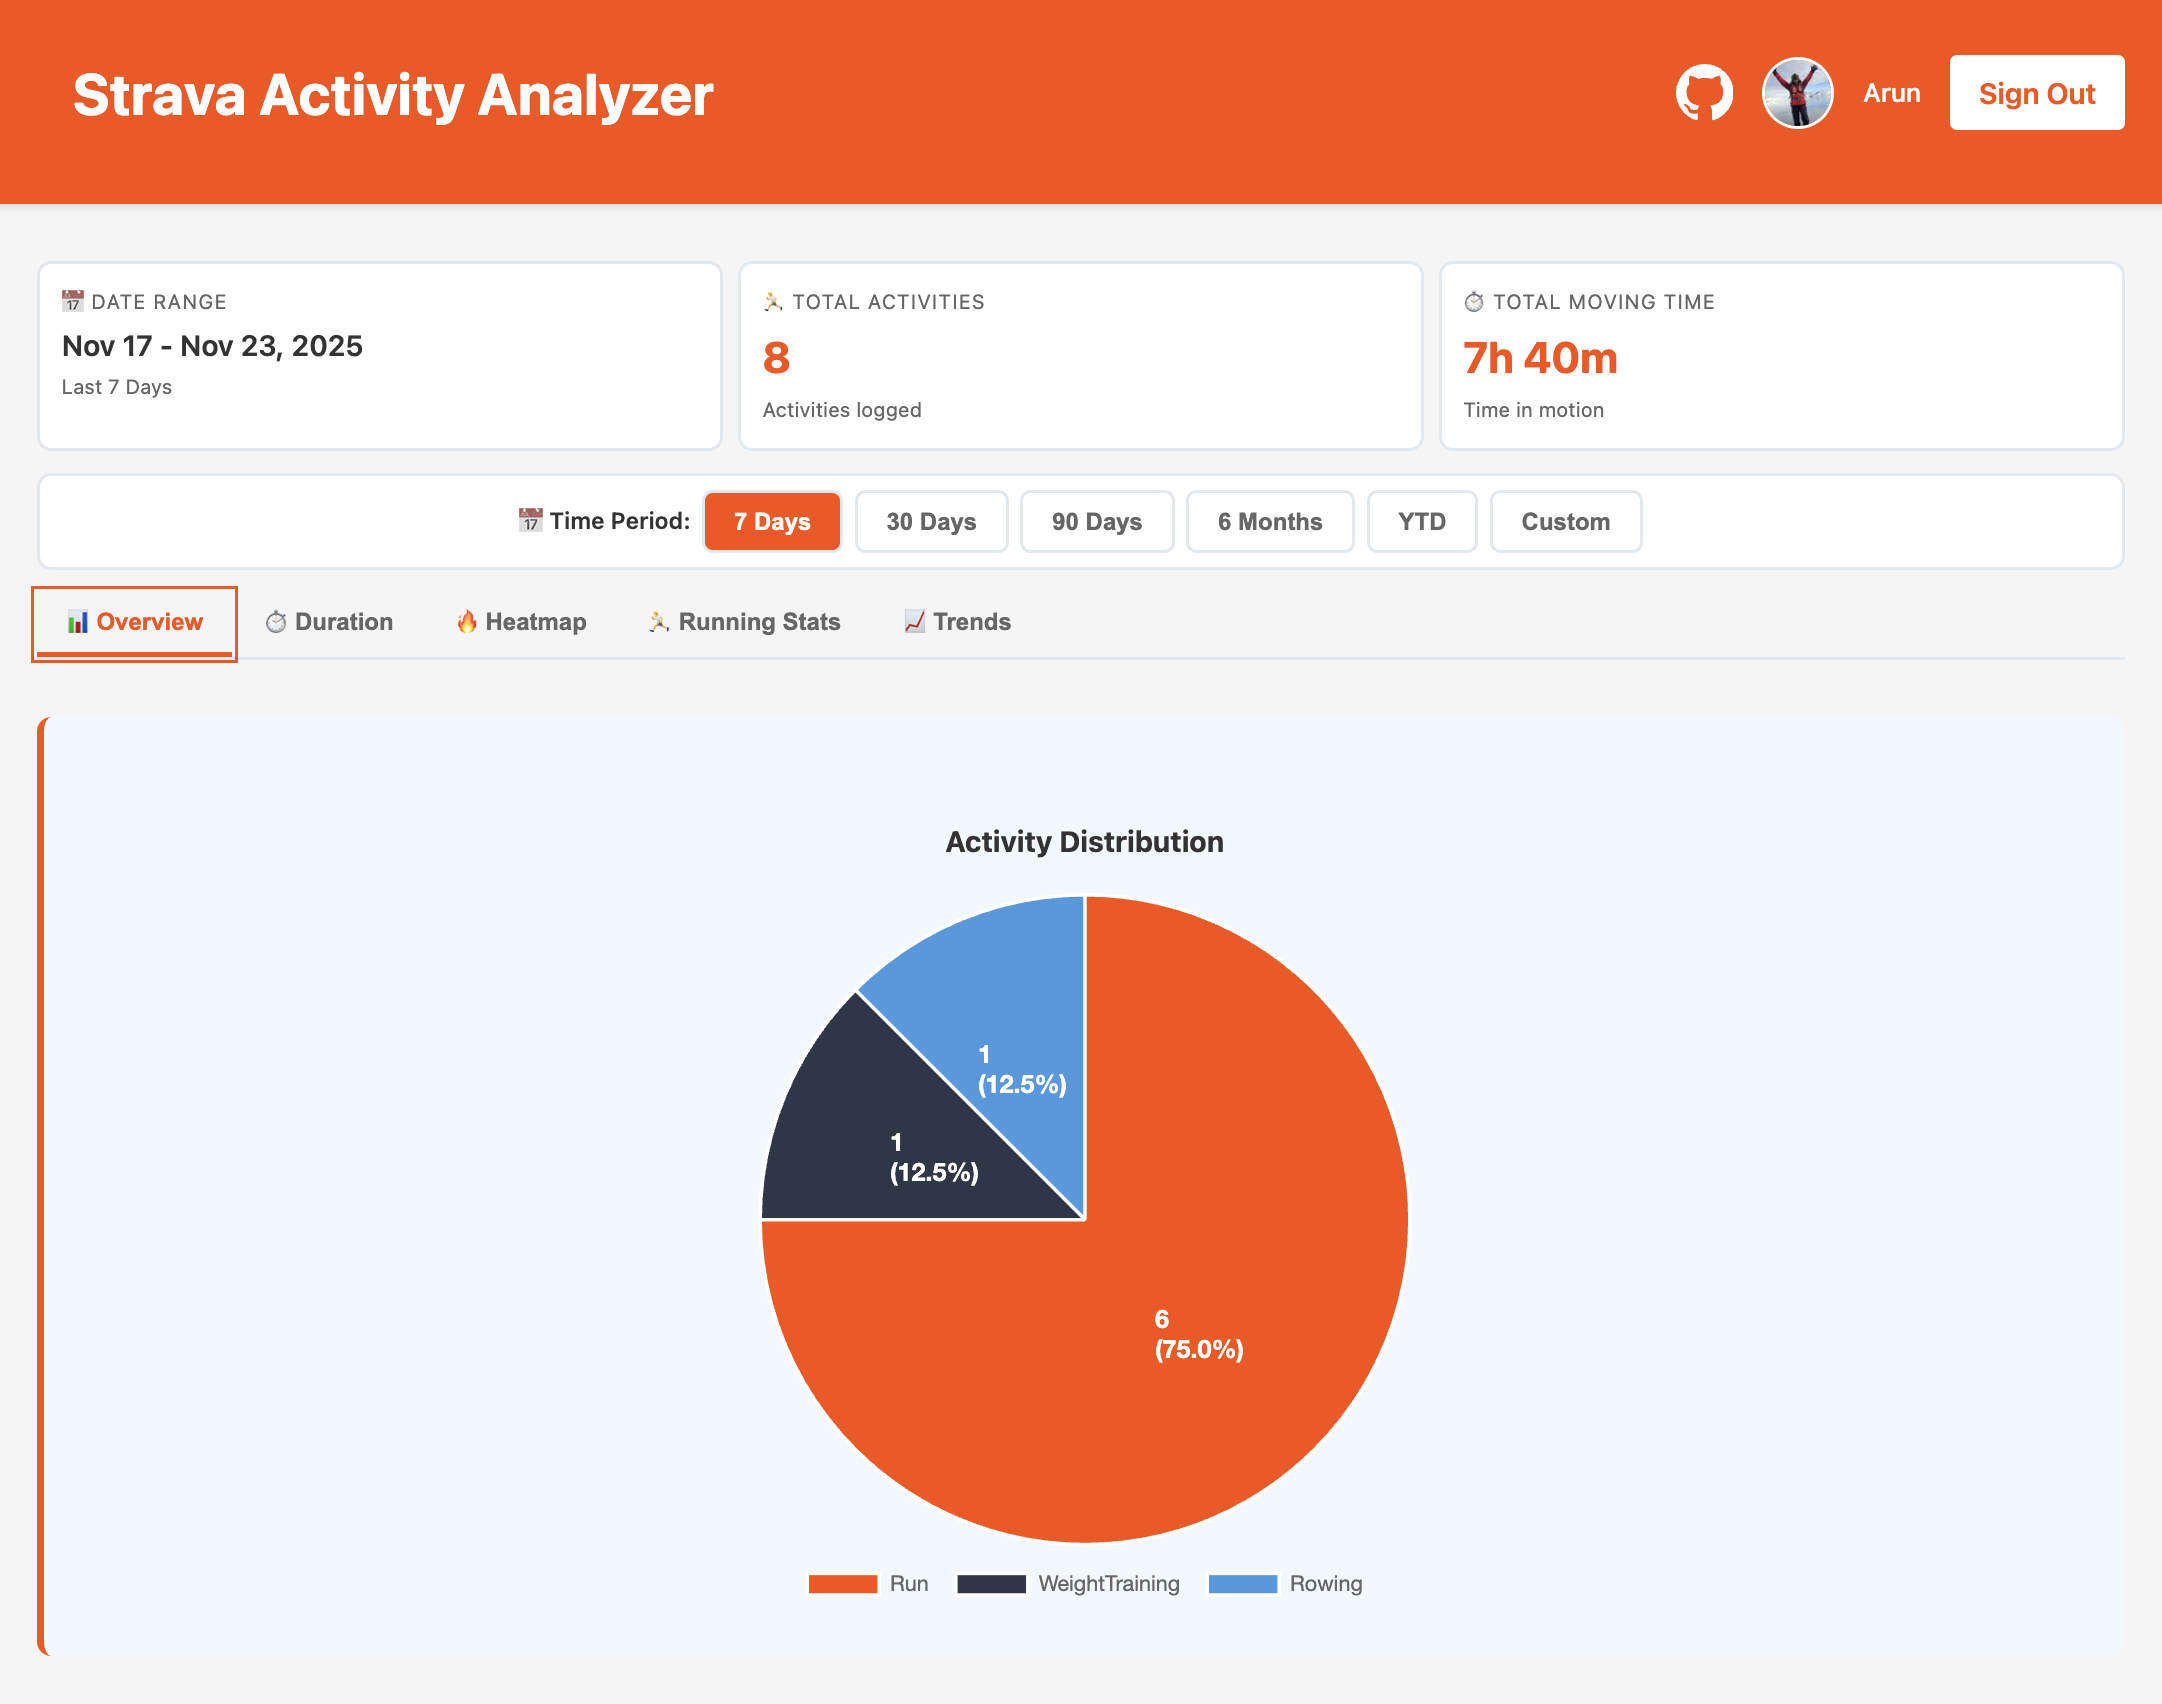
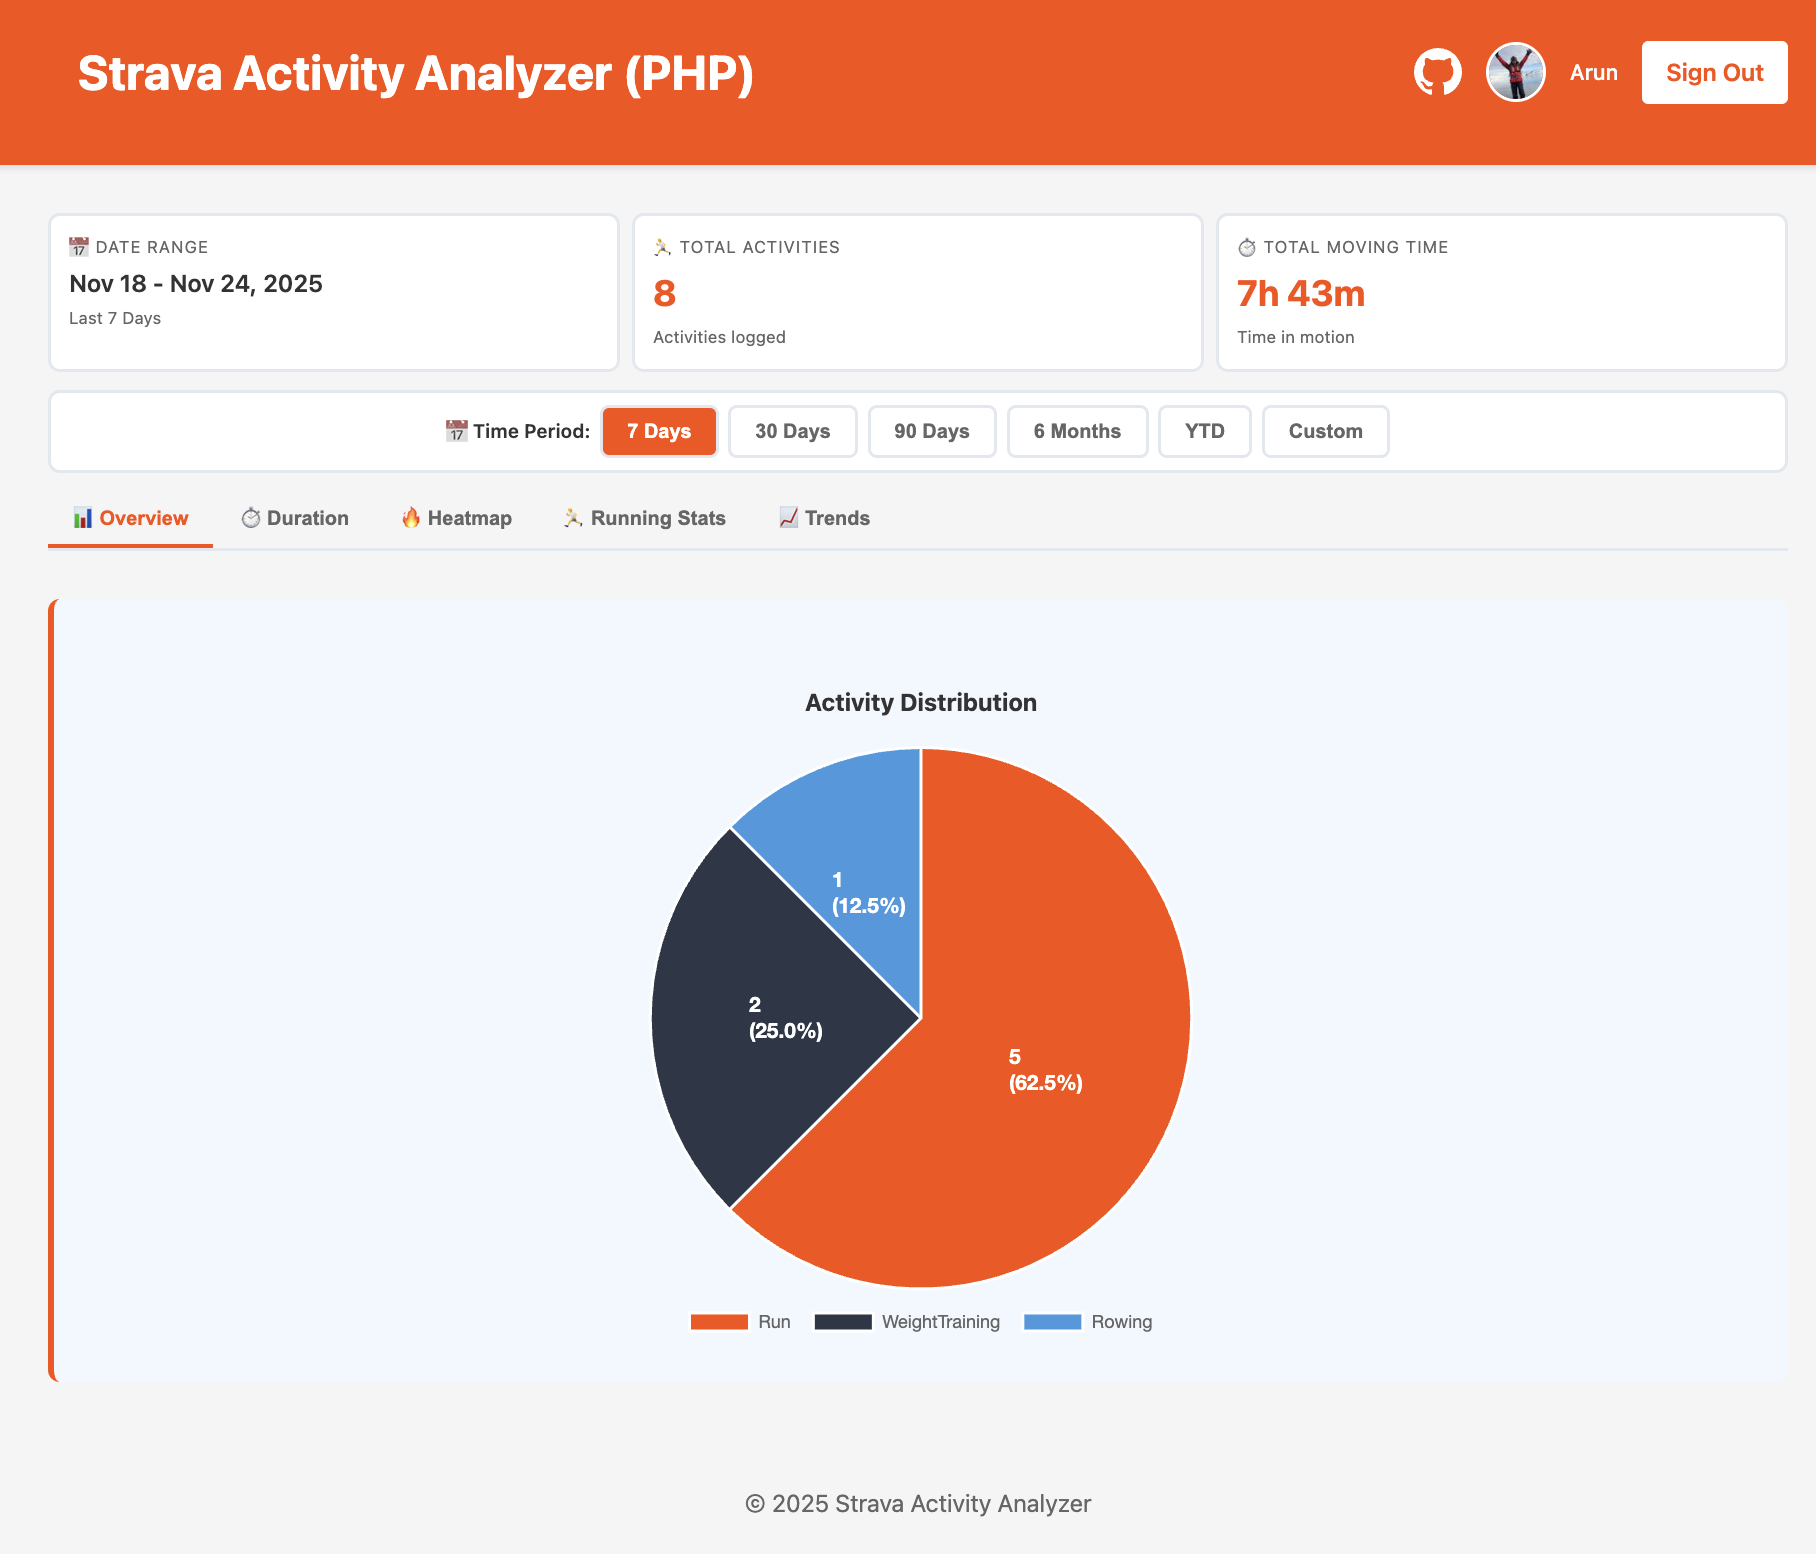
Add (PHP) to title and fix heatmap timezone bug
- Add (PHP) suffix to README title and web app banner
- Fix bug where activities weren't showing in heatmap for current day
- Use date-only parsing from Strava's start_date_local field
- Activity logged on any date in any timezone now appears on that calendar date
- Bump activity cache to v4 to invalidate old timezone-based cache

🤖 Generated with [Claude Code](https://claude.com/claude-code)

diff --git a/src/Models/Activity.php b/src/Models/Activity.php
@@ -35,15 +35,16 @@ class Activity
      */
     public static function fromStravaApi(array $data): self
     {
-        // Strava's start_date_local contains the activity's local date/time
-        // We just need the DATE portion to determine which day it occurred on
+        // Strava's start_date_local contains the activity's local date/time in the timezone where it was performed
+        // We extract ONLY the date portion (YYYY-MM-DD) and ignore time/timezone completely
+        // This ensures an activity logged on a specific calendar date appears on that date, period.
         $startDateStr = $data['start_date_local'] ?? $data['start_date'] ?? 'now';
 
-        // Extract only the date (YYYY-MM-DD) and set time to noon UTC
-        // This prevents timezone shifts from changing the date
+        // Extract only the date (YYYY-MM-DD) - we only care about the calendar date
         if (preg_match('/^(\d{4}-\d{2}-\d{2})/', $startDateStr, $matches)) {
-            // Use the date at noon UTC to avoid any timezone-related date shifting
-            $startDate = DateTime::createFromFormat('Y-m-d H:i:s', $matches[1] . ' 12:00:00', new \DateTimeZone('UTC'));
+            // Create a date-only object by treating it as a naive date (no timezone conversion)
+            // We'll format this as Y-m-d for comparisons, so timezone is irrelevant
+            $startDate = new DateTime($matches[1]);
         } else {
             // Fallback for unexpected format
             $startDate = new DateTime($startDateStr);

diff --git a/routes/web.php b/routes/web.php
@@ -236,16 +236,18 @@ return function (App $app) {
                 $activityService = new ActivityService();
 
                 // Check if we have cached activities and if the cache is still valid
-                // Cache version changed - now using date-only parsing (v3)
-                $cacheKey = 'activities_cache_v3';
-                $cacheStartDateKey = 'activities_cache_start_date_v3';
+                // Cache version changed - now using local timezone (v4)
+                $cacheKey = 'activities_cache_v4';
+                $cacheStartDateKey = 'activities_cache_start_date_v4';
 
                 // Clear old cache versions if they exist
-                if (isset($_SESSION['activities_cache']) || isset($_SESSION['activities_cache_v2'])) {
+                if (isset($_SESSION['activities_cache']) || isset($_SESSION['activities_cache_v2']) || isset($_SESSION['activities_cache_v3'])) {
                     unset($_SESSION['activities_cache']);
                     unset($_SESSION['activities_cache_start_date']);
                     unset($_SESSION['activities_cache_v2']);
                     unset($_SESSION['activities_cache_start_date_v2']);
+                    unset($_SESSION['activities_cache_v3']);
+                    unset($_SESSION['activities_cache_start_date_v3']);
                 }
 
                 $needsRefetch = false;

diff --git a/views/layouts/main.php b/views/layouts/main.php
@@ -36,7 +36,7 @@
 
     <header>
         <div class="container" style="display: flex; justify-content: space-between; align-items: center;">
-            <h1><a href="/" style="color: white; text-decoration: none;">Strava Activity Analyzer</a></h1>
+            <h1><a href="/" style="color: white; text-decoration: none;">Strava Activity Analyzer (PHP)</a></h1>
             <div style="display: flex; align-items: center; gap: 1rem;">
                 <a href="https://github.com/arun-gupta/strava-stats-php" target="_blank" rel="noopener noreferrer"
                    style="display: flex; align-items: center; color: white; text-decoration: none; transition: opacity 0.2s;"

diff --git a/README.md b/README.md
@@ -1,4 +1,4 @@
-# Strava Activity Analyzer
+# Strava Activity Analyzer (PHP)
 
 Analyze and visualize your Strava activity statistics with beautiful charts and insights. Built with PHP and Chart.js, featuring real-time data from your Strava account.
 
